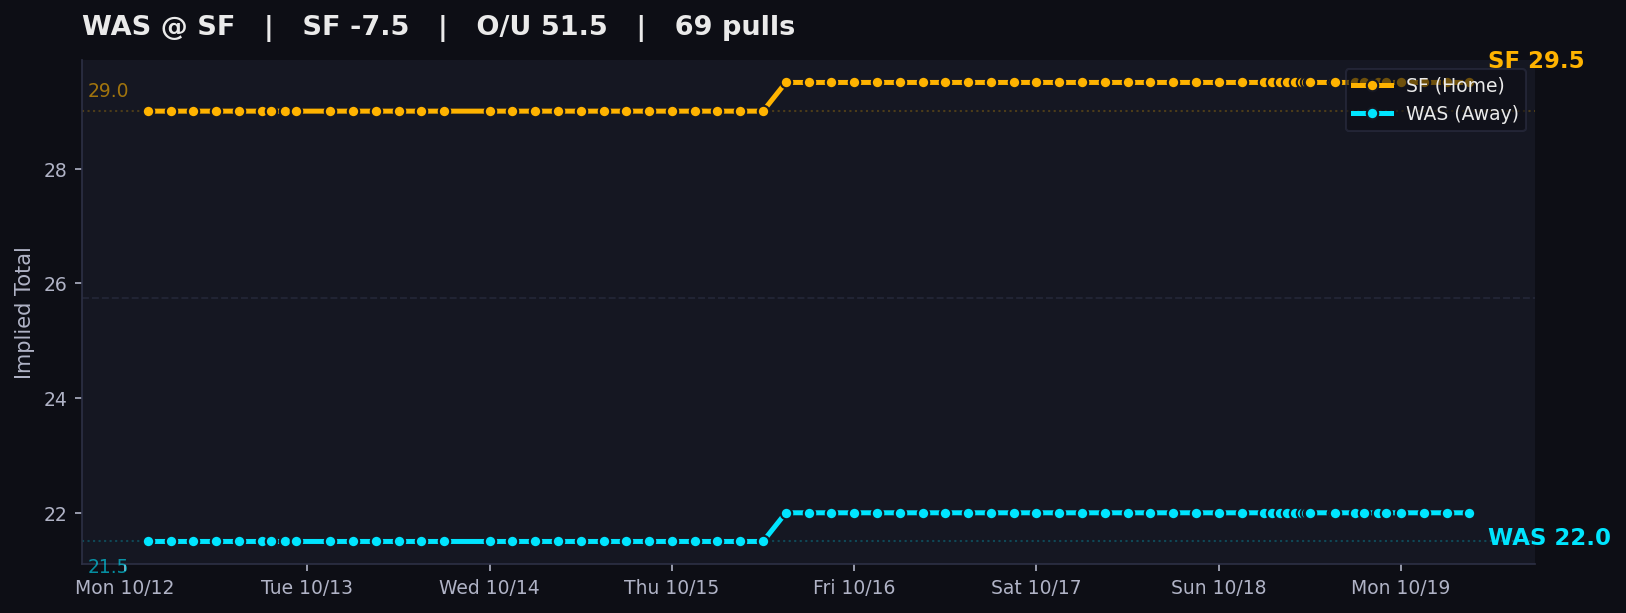
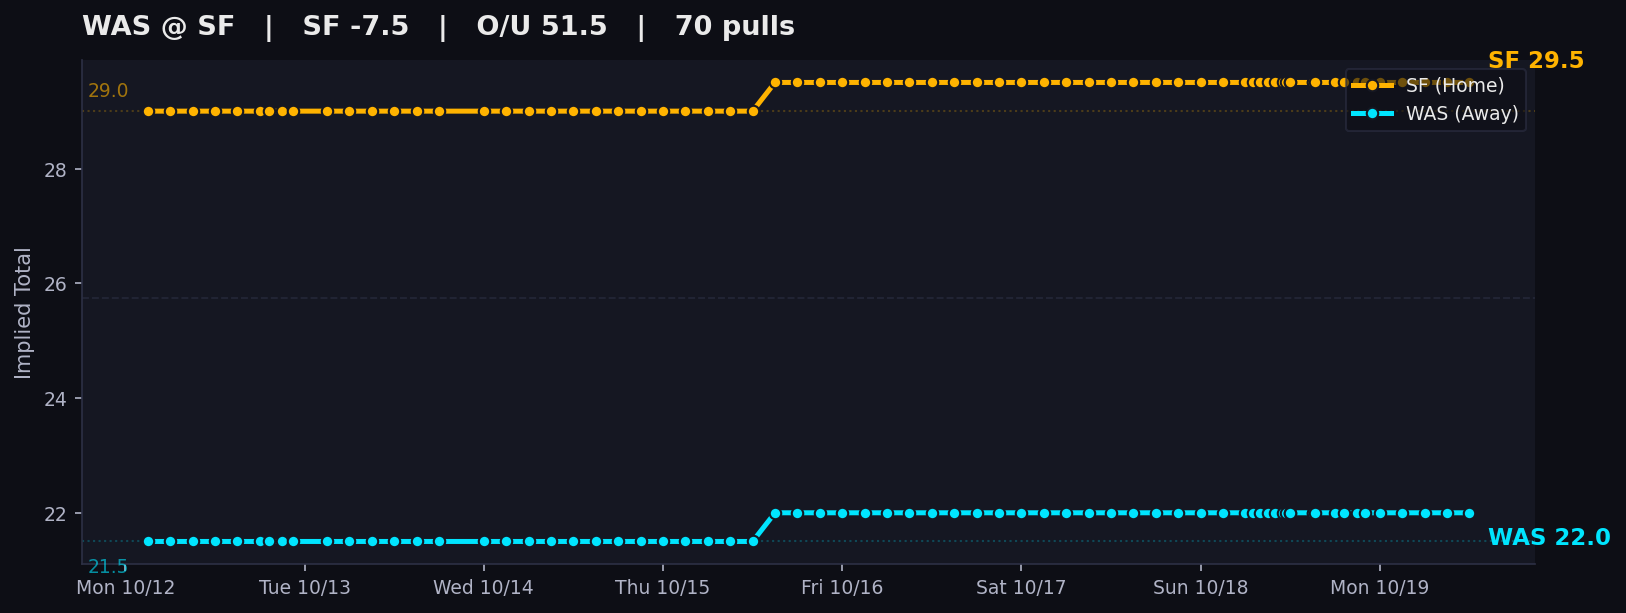
auto: local tracker sync

diff --git a/charts/index.html b/charts/index.html
@@ -311,7 +311,7 @@
     </div>
     <p class='sub'>
       DraftKings main lines &middot; Pinnacle cross-check &middot; Updated by the local Mac tracker<br>
-      Page rendered Mon Oct 19, 2026 9:00 AM CDT &middot; 833 valid chart dots &middot; 878 total pull attempts
+      Page rendered Mon Oct 19, 2026 12:00 PM CDT &middot; 834 valid chart dots &middot; 879 total pull attempts
       <span class='legend-box'>
         <span class='dot-teal'>● Away implied total</span>
         <span class='dot-amber'>● Home implied total</span>
@@ -324,9 +324,9 @@
     </details>
   </header>
 
-  <div id='feed-banner' class='alert-banner healthy' data-banner-kind='healthy' data-feed-ts='2026-10-19T14:00:01.064469+00:00' data-feed-ts-label='Mon Oct 19, 9:00 AM CDT'>
-            <span class='status-dot'></span>
-            <b>Feed Healthy:</b> All 1 open markets updated. 13 games have started and is showing its final verified pregame line. Board age based on oldest open market: <span id='feed-time'>Mon Oct 19, 9:00 AM CDT</span> (<span id='feed-age-dynamic'>just now</span>).
+  <div id='feed-banner' class='alert-banner warning' data-banner-kind='failed' data-feed-ts='2026-10-19T17:00:01.053263+00:00' data-feed-ts-label='Mon Oct 19, 12:00 PM CDT'>
+            <span class='alert-icon'>⚠</span>
+            <b>SCRAPER DEGRADED:</b> Odds pull was incomplete at 12:00 PM CDT (Missing complete DraftKings market for 1 of 15 games: SF@ATL). Displaying the last verified line for affected games (oldest line: Mon Oct 19, 12:00 PM CDT, just now). Check the local runner log for details.
         </div>
 
   <nav class='filter-bar' aria-label='Filter games by slate'>
@@ -396,7 +396,7 @@
                 <div><span>Last valid pull</span><strong>Thu 6:00 PM CT</strong></div>
                 <div><span>Chart dots</span><strong>34</strong></div>
             </div>
-                    <img class='expanded-chart' src='SEA_DEN.png?v=1792418416' alt='SEA at DEN line movement chart'>
+                    <img class='expanded-chart' src='SEA_DEN.png?v=1792429220' alt='SEA at DEN line movement chart'>
                     <p class='movement-note'>Total 42.5 → 40.5</p>
                 </div>
             </td>
@@ -437,7 +437,7 @@
                 <div><span>Last valid pull</span><strong>Sun 8:00 AM CT</strong></div>
                 <div><span>Chart dots</span><strong>56</strong></div>
             </div>
-                    <img class='expanded-chart' src='HOU_JAX.png?v=1792418416' alt='HOU at JAX line movement chart'>
+                    <img class='expanded-chart' src='HOU_JAX.png?v=1792429220' alt='HOU at JAX line movement chart'>
                     <p class='movement-note'>Spread JAX -3.0 → -2.5; Total 43.5 → 41.5</p>
                 </div>
             </td>
@@ -478,7 +478,7 @@
                 <div><span>Last valid pull</span><strong>Sun 12:00 PM CT</strong></div>
                 <div><span>Chart dots</span><strong>62</strong></div>
             </div>
-                    <img class='expanded-chart' src='CAR_PHI.png?v=1792418416' alt='CAR at PHI line movement chart'>
+                    <img class='expanded-chart' src='CAR_PHI.png?v=1792429220' alt='CAR at PHI line movement chart'>
                     <p class='movement-note'>Spread CAR +1.5 → -3.0; Total 42.5 → 39.5</p>
                 </div>
             </td>
@@ -513,7 +513,7 @@
                 <div><span>Last valid pull</span><strong>Sun 12:00 PM CT</strong></div>
                 <div><span>Chart dots</span><strong>55</strong></div>
             </div>
-                    <img class='expanded-chart' src='CHI_ATL.png?v=1792418416' alt='CHI at ATL line movement chart'>
+                    <img class='expanded-chart' src='CHI_ATL.png?v=1792429220' alt='CHI at ATL line movement chart'>
                     <p class='movement-note'>Spread CHI -3.0 → -1.5; Total 48.5 → 51.5</p>
                 </div>
             </td>
@@ -548,7 +548,7 @@
                 <div><span>Last valid pull</span><strong>Sun 12:00 PM CT</strong></div>
                 <div><span>Chart dots</span><strong>62</strong></div>
             </div>
-                    <img class='expanded-chart' src='PIT_TB.png?v=1792418416' alt='PIT at TB line movement chart'>
+                    <img class='expanded-chart' src='PIT_TB.png?v=1792429220' alt='PIT at TB line movement chart'>
                     <p class='movement-note'>Spread PIT -3.0 → -2.5; Total 40.5 → 37.5</p>
                 </div>
             </td>
@@ -583,7 +583,7 @@
                 <div><span>Last valid pull</span><strong>Sun 12:00 PM CT</strong></div>
                 <div><span>Chart dots</span><strong>62</strong></div>
             </div>
-                    <img class='expanded-chart' src='NO_NYG.png?v=1792418416' alt='NO at NYG line movement chart'>
+                    <img class='expanded-chart' src='NO_NYG.png?v=1792429220' alt='NO at NYG line movement chart'>
                     <p class='movement-note'>Spread NO +1.5 → -1.5</p>
                 </div>
             </td>
@@ -618,7 +618,7 @@
                 <div><span>Last valid pull</span><strong>Sun 12:00 PM CT</strong></div>
                 <div><span>Chart dots</span><strong>55</strong></div>
             </div>
-                    <img class='expanded-chart' src='BAL_CLE.png?v=1792418416' alt='BAL at CLE line movement chart'>
+                    <img class='expanded-chart' src='BAL_CLE.png?v=1792429220' alt='BAL at CLE line movement chart'>
                     <p class='movement-note'>Spread BAL -4.5 → -3.0; Total 40.5 → 39.5</p>
                 </div>
             </td>
@@ -653,7 +653,7 @@
                 <div><span>Last valid pull</span><strong>Sun 12:00 PM CT</strong></div>
                 <div><span>Chart dots</span><strong>62</strong></div>
             </div>
-                    <img class='expanded-chart' src='NYJ_NE.png?v=1792418416' alt='NYJ at NE line movement chart'>
+                    <img class='expanded-chart' src='NYJ_NE.png?v=1792429220' alt='NYJ at NE line movement chart'>
                     <p class='movement-note'>Total 44.5 → 43.5</p>
                 </div>
             </td>
@@ -688,7 +688,7 @@
                 <div><span>Last valid pull</span><strong>Sun 12:00 PM CT</strong></div>
                 <div><span>Chart dots</span><strong>62</strong></div>
             </div>
-                    <img class='expanded-chart' src='TEN_IND.png?v=1792418416' alt='TEN at IND line movement chart'>
+                    <img class='expanded-chart' src='TEN_IND.png?v=1792429220' alt='TEN at IND line movement chart'>
                     <p class='movement-note'>Spread IND -7.0 → -6.5; Total 44.5 → 43.5</p>
                 </div>
             </td>
@@ -729,7 +729,7 @@
                 <div><span>Last valid pull</span><strong>Sun 3:20 PM CT</strong></div>
                 <div><span>Chart dots</span><strong>64</strong></div>
             </div>
-                    <img class='expanded-chart' src='LAC_KC.png?v=1792418416' alt='LAC at KC line movement chart'>
+                    <img class='expanded-chart' src='LAC_KC.png?v=1792429220' alt='LAC at KC line movement chart'>
                     <p class='movement-note'>Spread KC -8.5 → -7.5; Total 43.5 → 41.5</p>
                 </div>
             </td>
@@ -764,7 +764,7 @@
                 <div><span>Last valid pull</span><strong>Sun 3:00 PM CT</strong></div>
                 <div><span>Chart dots</span><strong>62</strong></div>
             </div>
-                    <img class='expanded-chart' src='ARI_LAR.png?v=1792418416' alt='ARI at LAR line movement chart'>
+                    <img class='expanded-chart' src='ARI_LAR.png?v=1792429220' alt='ARI at LAR line movement chart'>
                     <p class='movement-note'>Total 52.5 → 51.5</p>
                 </div>
             </td>
@@ -799,7 +799,7 @@
                 <div><span>Last valid pull</span><strong>Sun 3:20 PM CT</strong></div>
                 <div><span>Chart dots</span><strong>62</strong></div>
             </div>
-                    <img class='expanded-chart' src='BUF_LVR.png?v=1792418416' alt='BUF at LVR line movement chart'>
+                    <img class='expanded-chart' src='BUF_LVR.png?v=1792429220' alt='BUF at LVR line movement chart'>
                     <p class='movement-note'>Spread BUF -6.0 → -5.5</p>
                 </div>
             </td>
@@ -840,7 +840,7 @@
                 <div><span>Last valid pull</span><strong>Sun 7:10 PM CT</strong></div>
                 <div><span>Chart dots</span><strong>66</strong></div>
             </div>
-                    <img class='expanded-chart' src='DAL_GB.png?v=1792418416' alt='DAL at GB line movement chart'>
+                    <img class='expanded-chart' src='DAL_GB.png?v=1792429220' alt='DAL at GB line movement chart'>
                     <p class='movement-note'>Spread DAL +1.5 → -1.5; Total 52.5 → 53.5</p>
                 </div>
             </td>
@@ -861,8 +861,8 @@
             <td class='it-away'>WAS 22.0</td>
             <td class='it-home'>SF 29.5</td>
             <td class='reason' title='Total 50.5 → 51.5'>Total 50.5 → 51.5</td>
-            <td style='text-align:center;'><span class='pill-fresh'>9:00 AM CT</span></td>
-            <td class='snaps'>69</td>
+            <td style='text-align:center;'><span class='pill-fresh'>12:00 PM CT</span></td>
+            <td class='snaps'>70</td>
         </tr>
         <tr id='desktop-panel-WAS_SF' class='chart-detail-row' data-slate='MNF' data-game-panel='WAS_SF' hidden>
             <td colspan='12'>
@@ -878,10 +878,10 @@
                 <div><span>Current total</span><strong>51.5</strong></div>
                 <div><span>Away implied</span><strong class='it-away'>WAS 22.0</strong></div>
                 <div><span>Home implied</span><strong class='it-home'>SF 29.5</strong></div>
-                <div><span>Last valid pull</span><strong>9:00 AM CT</strong></div>
-                <div><span>Chart dots</span><strong>69</strong></div>
+                <div><span>Last valid pull</span><strong>12:00 PM CT</strong></div>
+                <div><span>Chart dots</span><strong>70</strong></div>
             </div>
-                    <img class='expanded-chart' src='WAS_SF.png?v=1792418416' alt='WAS at SF line movement chart'>
+                    <img class='expanded-chart' src='WAS_SF.png?v=1792429220' alt='WAS at SF line movement chart'>
                     <p class='movement-note'>Total 50.5 → 51.5</p>
                 </div>
             </td>
@@ -916,7 +916,7 @@
                 <div><span>Last valid pull</span><strong>Thu 6:00 PM CT</strong></div>
                 <div><span>Chart dots</span><strong>34</strong></div>
             </div>
-                <img class='expanded-chart' src='SEA_DEN.png?v=1792418416' alt='SEA at DEN line movement chart'>
+                <img class='expanded-chart' src='SEA_DEN.png?v=1792429220' alt='SEA at DEN line movement chart'>
                 <p class='pull-note'><span class='pull-dot'></span> Every dot is a valid completed pull · 34 chart dots</p>
             </div>
         </article><article class='mobile-game-card closed-game' data-slate='OTHER_PRIMETIME' data-game='HOU_JAX'>
@@ -943,7 +943,7 @@
                 <div><span>Last valid pull</span><strong>Sun 8:00 AM CT</strong></div>
                 <div><span>Chart dots</span><strong>56</strong></div>
             </div>
-                <img class='expanded-chart' src='HOU_JAX.png?v=1792418416' alt='HOU at JAX line movement chart'>
+                <img class='expanded-chart' src='HOU_JAX.png?v=1792429220' alt='HOU at JAX line movement chart'>
                 <p class='pull-note'><span class='pull-dot'></span> Every dot is a valid completed pull · 56 chart dots</p>
             </div>
         </article><article class='mobile-game-card closed-game' data-slate='SUN_EARLY' data-game='CAR_PHI'>
@@ -970,7 +970,7 @@
                 <div><span>Last valid pull</span><strong>Sun 12:00 PM CT</strong></div>
                 <div><span>Chart dots</span><strong>62</strong></div>
             </div>
-                <img class='expanded-chart' src='CAR_PHI.png?v=1792418416' alt='CAR at PHI line movement chart'>
+                <img class='expanded-chart' src='CAR_PHI.png?v=1792429220' alt='CAR at PHI line movement chart'>
                 <p class='pull-note'><span class='pull-dot'></span> Every dot is a valid completed pull · 62 chart dots</p>
             </div>
         </article><article class='mobile-game-card closed-game' data-slate='SUN_EARLY' data-game='CHI_ATL'>
@@ -997,7 +997,7 @@
                 <div><span>Last valid pull</span><strong>Sun 12:00 PM CT</strong></div>
                 <div><span>Chart dots</span><strong>55</strong></div>
             </div>
-                <img class='expanded-chart' src='CHI_ATL.png?v=1792418416' alt='CHI at ATL line movement chart'>
+                <img class='expanded-chart' src='CHI_ATL.png?v=1792429220' alt='CHI at ATL line movement chart'>
                 <p class='pull-note'><span class='pull-dot'></span> Every dot is a valid completed pull · 55 chart dots</p>
             </div>
         </article><article class='mobile-game-card closed-game' data-slate='SUN_EARLY' data-game='PIT_TB'>
@@ -1024,7 +1024,7 @@
                 <div><span>Last valid pull</span><strong>Sun 12:00 PM CT</strong></div>
                 <div><span>Chart dots</span><strong>62</strong></div>
             </div>
-                <img class='expanded-chart' src='PIT_TB.png?v=1792418416' alt='PIT at TB line movement chart'>
+                <img class='expanded-chart' src='PIT_TB.png?v=1792429220' alt='PIT at TB line movement chart'>
                 <p class='pull-note'><span class='pull-dot'></span> Every dot is a valid completed pull · 62 chart dots</p>
             </div>
         </article><article class='mobile-game-card closed-game' data-slate='SUN_EARLY' data-game='NO_NYG'>
@@ -1051,7 +1051,7 @@
                 <div><span>Last valid pull</span><strong>Sun 12:00 PM CT</strong></div>
                 <div><span>Chart dots</span><strong>62</strong></div>
             </div>
-                <img class='expanded-chart' src='NO_NYG.png?v=1792418416' alt='NO at NYG line movement chart'>
+                <img class='expanded-chart' src='NO_NYG.png?v=1792429220' alt='NO at NYG line movement chart'>
                 <p class='pull-note'><span class='pull-dot'></span> Every dot is a valid completed pull · 62 chart dots</p>
             </div>
         </article><article class='mobile-game-card closed-game' data-slate='SUN_EARLY' data-game='BAL_CLE'>
@@ -1078,7 +1078,7 @@
                 <div><span>Last valid pull</span><strong>Sun 12:00 PM CT</strong></div>
                 <div><span>Chart dots</span><strong>55</strong></div>
             </div>
-                <img class='expanded-chart' src='BAL_CLE.png?v=1792418416' alt='BAL at CLE line movement chart'>
+                <img class='expanded-chart' src='BAL_CLE.png?v=1792429220' alt='BAL at CLE line movement chart'>
                 <p class='pull-note'><span class='pull-dot'></span> Every dot is a valid completed pull · 55 chart dots</p>
             </div>
         </article><article class='mobile-game-card closed-game' data-slate='SUN_EARLY' data-game='NYJ_NE'>
@@ -1105,7 +1105,7 @@
                 <div><span>Last valid pull</span><strong>Sun 12:00 PM CT</strong></div>
                 <div><span>Chart dots</span><strong>62</strong></div>
             </div>
-                <img class='expanded-chart' src='NYJ_NE.png?v=1792418416' alt='NYJ at NE line movement chart'>
+                <img class='expanded-chart' src='NYJ_NE.png?v=1792429220' alt='NYJ at NE line movement chart'>
                 <p class='pull-note'><span class='pull-dot'></span> Every dot is a valid completed pull · 62 chart dots</p>
             </div>
         </article><article class='mobile-game-card closed-game' data-slate='SUN_EARLY' data-game='TEN_IND'>
@@ -1132,7 +1132,7 @@
                 <div><span>Last valid pull</span><strong>Sun 12:00 PM CT</strong></div>
                 <div><span>Chart dots</span><strong>62</strong></div>
             </div>
-                <img class='expanded-chart' src='TEN_IND.png?v=1792418416' alt='TEN at IND line movement chart'>
+                <img class='expanded-chart' src='TEN_IND.png?v=1792429220' alt='TEN at IND line movement chart'>
                 <p class='pull-note'><span class='pull-dot'></span> Every dot is a valid completed pull · 62 chart dots</p>
             </div>
         </article><article class='mobile-game-card closed-game' data-slate='SUN_LATE' data-game='LAC_KC'>
@@ -1159,7 +1159,7 @@
                 <div><span>Last valid pull</span><strong>Sun 3:20 PM CT</strong></div>
                 <div><span>Chart dots</span><strong>64</strong></div>
             </div>
-                <img class='expanded-chart' src='LAC_KC.png?v=1792418416' alt='LAC at KC line movement chart'>
+                <img class='expanded-chart' src='LAC_KC.png?v=1792429220' alt='LAC at KC line movement chart'>
                 <p class='pull-note'><span class='pull-dot'></span> Every dot is a valid completed pull · 64 chart dots</p>
             </div>
         </article><article class='mobile-game-card closed-game' data-slate='SUN_LATE' data-game='ARI_LAR'>
@@ -1186,7 +1186,7 @@
                 <div><span>Last valid pull</span><strong>Sun 3:00 PM CT</strong></div>
                 <div><span>Chart dots</span><strong>62</strong></div>
             </div>
-                <img class='expanded-chart' src='ARI_LAR.png?v=1792418416' alt='ARI at LAR line movement chart'>
+                <img class='expanded-chart' src='ARI_LAR.png?v=1792429220' alt='ARI at LAR line movement chart'>
                 <p class='pull-note'><span class='pull-dot'></span> Every dot is a valid completed pull · 62 chart dots</p>
             </div>
         </article><article class='mobile-game-card closed-game' data-slate='SUN_LATE' data-game='BUF_LVR'>
@@ -1213,7 +1213,7 @@
                 <div><span>Last valid pull</span><strong>Sun 3:20 PM CT</strong></div>
                 <div><span>Chart dots</span><strong>62</strong></div>
             </div>
-                <img class='expanded-chart' src='BUF_LVR.png?v=1792418416' alt='BUF at LVR line movement chart'>
+                <img class='expanded-chart' src='BUF_LVR.png?v=1792429220' alt='BUF at LVR line movement chart'>
                 <p class='pull-note'><span class='pull-dot'></span> Every dot is a valid completed pull · 62 chart dots</p>
             </div>
         </article><article class='mobile-game-card closed-game' data-slate='SNF' data-game='DAL_GB'>
@@ -1240,7 +1240,7 @@
                 <div><span>Last valid pull</span><strong>Sun 7:10 PM CT</strong></div>
                 <div><span>Chart dots</span><strong>66</strong></div>
             </div>
-                <img class='expanded-chart' src='DAL_GB.png?v=1792418416' alt='DAL at GB line movement chart'>
+                <img class='expanded-chart' src='DAL_GB.png?v=1792429220' alt='DAL at GB line movement chart'>
                 <p class='pull-note'><span class='pull-dot'></span> Every dot is a valid completed pull · 66 chart dots</p>
             </div>
         </article><article class='mobile-game-card ' data-slate='MNF' data-game='WAS_SF'>
@@ -1264,11 +1264,11 @@
                 <div><span>Current total</span><strong>51.5</strong></div>
                 <div><span>Away implied</span><strong class='it-away'>WAS 22.0</strong></div>
                 <div><span>Home implied</span><strong class='it-home'>SF 29.5</strong></div>
-                <div><span>Last valid pull</span><strong>9:00 AM CT</strong></div>
-                <div><span>Chart dots</span><strong>69</strong></div>
+                <div><span>Last valid pull</span><strong>12:00 PM CT</strong></div>
+                <div><span>Chart dots</span><strong>70</strong></div>
             </div>
-                <img class='expanded-chart' src='WAS_SF.png?v=1792418416' alt='WAS at SF line movement chart'>
-                <p class='pull-note'><span class='pull-dot'></span> Every dot is a valid completed pull · 69 chart dots</p>
+                <img class='expanded-chart' src='WAS_SF.png?v=1792429220' alt='WAS at SF line movement chart'>
+                <p class='pull-note'><span class='pull-dot'></span> Every dot is a valid completed pull · 70 chart dots</p>
             </div>
         </article>
   </section>
